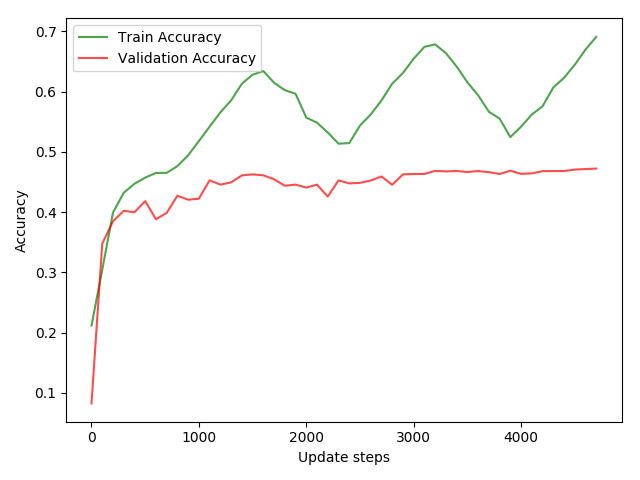
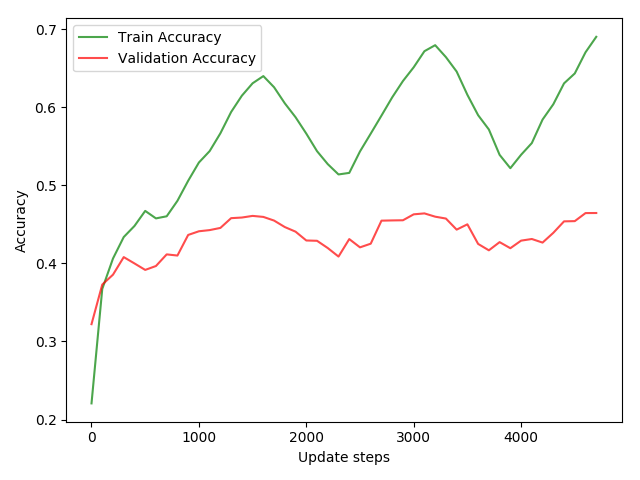
Add model & Update 3

diff --git a/As2/run.py b/As2/run.py
@@ -24,7 +24,7 @@ model_parameters = {
     "noise_std": 0.01,  # the standard deviation of the gaussian noise added to the training data
     "lambda_reg": 0.,  # regularizing term variable
     "min_delta": 0.01,  # minimum accepted validation error
-    "patience": 40  # how many epochs to wait before stopping training if the val_error is below min_delta
+    "patience": 7  # how many epochs to wait before stopping training if the val_error is below min_delta
 }
 
 
@@ -63,44 +63,17 @@ def main():
     # lambda_search(train_x, train_y, val_x, val_y)
 
     # Train a network with optimal hyper-parameter values using almost all of the data
-    #  use_all=True, val_size=1000 | cycles = 3 | n_s = 1000 | lambda = 0.00087
-    train_a_network(train_x, train_y, val_x, val_y, test_x, test_y)
+    #  use_all=True, val_size=1000 | cycles = 5 | n_s = 1000 | lambda = 0.00087
+    # train_a_network(train_x, train_y, val_x, val_y, test_x, test_y, n_cycles=5)
 
     # Report the effect of adding noise to the training data
-    # TODO:
-    #  - test 4 std values without regularisation
-    #  - test 4 std values with regularisation
-    model_parameters["train_noisy"] = True
-    model_parameters["noise_std"] = 0.01
-    model_parameters["noise_std"] = 0.05
-    model_parameters["noise_std"] = 0.1
-    model_parameters["noise_std"] = 0.15
-    cycles = 3
-    n_s = 900
-    lambda_reg = 0.
-    lambda_reg = 0.01
-    # train_a_network(train_x, train_y, val_x, val_y, test_x, test_y)
+    # test_noise(train_x, train_y, val_x, val_y, test_x, test_y)
 
     # Report the effect of different number of nodes
-    # TODO:
-    #  - test with 50 / 100 / 1000 / 3072 nodes without regularisation without noise
-    model_parameters["train_noisy"] = False
-    network_structure[0] = 50
-    network_structure[0] = 100
-    network_structure[0] = 1000
-    network_structure[0] = 3072
-    cycles = 3
-    n_s = 900
-    lambda_reg = 0.
+    # test_nodes(train_x, train_y, val_x, val_y, test_x, test_y)
 
     # Report the effect of ensemble method
-    # TODO:
-    #  - test with the ensemble method for 5 / 10 / 15 cycles
-    #  - test without the ensemble method for 1 / 3 / 5 / 10 cycles
-
-    cycles = 10
-    n_s = 900
-    lambda_reg = 0.01  # OPTIMAL LAMBDA
+    test_ensemble(train_x, train_y, val_x, val_y, test_x, test_y)
 
 
 def test_grad_computations(train_x, train_y):
@@ -142,22 +115,37 @@ def overfit_test(train_x, train_y):
     print("Test accuracy: ", test_accuracy)
 
 
-def train_a_network(train_x, train_y, val_x, val_y, test_x, test_y):
+def train_a_network(train_x, train_y, val_x, val_y, test_x, test_y, n_cycles=3, use_ensemble=False, early_stop=False):
     """
     Train and test a two-layer network
-    """
-    cycles = 3
-    n_s = 2 * int(train_x.shape[0] / model_parameters["n_batch"])
+
+    Model 1:
+    n_s = 500
+    cycle = 1
+
+    Model 2:
+    n_s = 800
+    cycle = 3
+
+    lambda = 0.01
+
+    n_s = 800
     num_iters = 2 * n_s * cycles
-    model_parameters["n_batch"] = 100
     epochs = int(num_iters / model_parameters["n_batch"])
-    model_parameters["lambda_reg"] = 0.00087
+    """
+
+    cycles = n_cycles
+    # n_s = 2 * int(train_x.shape[0] / model_parameters["n_batch"])
+    n_s = 2 * int(train_x.shape[0] / model_parameters["n_batch"])
+    epochs = cycles * 2 * 2
+
     model_parameters["n_s"] = n_s
+    model_parameters["lambda_reg"] = 0.00087
 
     net = TwoLayerNetwork(**model_parameters)
 
     net.train(network_structure, train_x, train_y, val_x, val_y,
-              n_epochs=epochs, early_stop=False, ensemble=False, verbose=True)
+              n_epochs=epochs, early_stop=early_stop, ensemble=use_ensemble, verbose=False)
 
     net.plot_train_val_progress()
     net.plot_eta_history()
@@ -231,6 +219,44 @@ def lambda_search(train_x, train_y, val_x, val_y):
 
     with open('lambda_results_' + title + '.json', 'w') as fp:
         json.dump(results, fp, sort_keys=True, indent=2)
+
+
+def test_noise(train_x, train_y, val_x, val_y, test_x, test_y):
+
+    noises = [0.01, 0.05, 0.1, 0.15, 0.2, 0.25]
+    model_parameters["train_noisy"] = True
+
+    for noise in noises:
+        model_parameters["noise_std"] = noise
+        print("noise: {} ".format(noise), end="")
+        train_a_network(train_x, train_y, val_x, val_y, test_x, test_y)
+
+    model_parameters["train_noisy"] = False
+
+
+def test_nodes(train_x, train_y, val_x, val_y, test_x, test_y):
+
+    nodes = [50, 100, 1000, 3072]
+    cycles = 10
+    for n_nodes in nodes:
+        network_structure[0] = n_nodes
+        print("Nodes : ", n_nodes, end="")
+        train_a_network(train_x, train_y, val_x, val_y, test_x, test_y, n_cycles=cycles, early_stop=True)
+
+    network_structure[0] = 50
+
+
+def test_ensemble(train_x, train_y, val_x, val_y, test_x, test_y):
+
+    cycles = [10] # [5, 10, 15]
+    for n_cycles in cycles:
+        print("Ensemble: Yes Cycles : ", n_cycles, end="")
+        train_a_network(train_x, train_y, val_x, val_y, test_x, test_y, n_cycles=n_cycles, use_ensemble=True)
+    exit()
+    cycles = [3, 5, 10]
+    for n_cycles in cycles:
+        print("Ensemble: No Cycles : ", n_cycles, end="")
+        train_a_network(train_x, train_y, val_x, val_y, test_x, test_y, n_cycles=n_cycles, use_ensemble=False)
 
 
 if __name__ == "__main__":

diff --git a/As3/network3.py b/As3/network3.py
@@ -41,7 +41,11 @@ class MultiLayerNetwork:
         self.p_iter = 0
         self.prev_val_error = 0
         self.loss_train_av_history = []
+        self.cost_train_av_history = []
+        self.acc_train_av_history = []
         self.loss_val_av_history = []
+        self.cost_val_av_history = []
+        self.acc_val_av_history = []
         self.eta_history = []
 
     def init_weights(self, net_structure, d):
@@ -83,6 +87,8 @@ class MultiLayerNetwork:
         batch_epochs = int(n / self.n_batch)
 
         self.loss_train_av_history = []
+        self.cost_train_av_history = []
+        self.acc_train_av_history = []
         self.eta_history = []
 
         iteration = 0
@@ -97,6 +103,7 @@ class MultiLayerNetwork:
 
             av_acc = 0  # Average epoch accuracy
             av_loss = 0  # Average epoch loss
+            av_cost = 0  # Average epoch cost
 
             for batch in range(batch_epochs):
                 # Calculate a new learning rate based on the CLR method
@@ -121,8 +128,9 @@ class MultiLayerNetwork:
                 layers_out, class_out = self.forward(batch_data)
 
                 # Run a backward pass in the network, computing the loss and updating the weights
-                loss = self.backward(layers_out, batch_data, batch_labels)
+                loss, cost = self.backward(layers_out, batch_data, batch_labels)
                 av_loss += loss
+                av_cost += cost
 
                 av_acc += self.accuracy(class_out, batch_classes)
 
@@ -135,8 +143,11 @@ class MultiLayerNetwork:
                         self.models[i] = [self.w.copy(), self.b.copy()]
 
             average_epoch_loss = av_loss / batch_epochs
+            average_epoch_cost = av_cost / batch_epochs
             average_epoch_acc = av_acc / batch_epochs
             self.loss_train_av_history.append(average_epoch_loss)
+            self.cost_train_av_history.append(average_epoch_cost)
+            self.acc_train_av_history.append(average_epoch_acc)
 
             if verbose:
                 print("Epoch: {} - Accuracy: {} Loss: {}".format(i, average_epoch_acc, average_epoch_loss))
@@ -255,8 +266,8 @@ class MultiLayerNetwork:
         for layer_i in range(len(l_out)-1, 0, -1):
             # Calculate layer weight gradient based on the loss of that layer and the input of that layer
             w_i_grad = np.dot(loss_i_grad, l_out[layer_i-1].T) / self.n_batch
-            # Calculate layer bias gradient based on its loss
-            b_i_grad = np.sum(loss_i_grad, axis=0) / self.n_batch
+            # Calculate layer bias gradient based on its loss (maybe np.sum(loss_i_grad, axis=0) also works)
+            b_i_grad = np.dot(loss_i_grad, np.ones((self.n_batch, 1))) / self.n_batch
             # Compute gradient of regularization term w.r.t the OUTPUT weights
             reg_i_grad = 2 * self.lambda_reg * self.w[layer_i]
             # Save the gradients
@@ -271,7 +282,7 @@ class MultiLayerNetwork:
         # Calculate FIRST hidden layer weight and bias gradients
         w_0_grad = np.dot(loss_i_grad, data.T) / self.n_batch
         # Calculate layer bias gradient based on its loss
-        b_0_grad = np.sum(loss_i_grad, axis=0) / self.n_batch
+        b_0_grad = np.dot(loss_i_grad, np.ones((self.n_batch, 1))) / self.n_batch
         # Compute gradient of regularization term
         reg_0_grad = 2 * self.lambda_reg * self.w[0]
         # Save the gradients

diff --git a/As2/network2.py b/As2/network2.py
@@ -155,6 +155,7 @@ class TwoLayerNetwork:
             if early_stop:
                 val_error = 1 - val_acc
                 if self.early_stopping(val_error):
+                    print("Model reached plateau. Early stopping enabled at epoch {}.".format(i))
                     break
 
         return val_acc
@@ -203,12 +204,13 @@ class TwoLayerNetwork:
             models_accuracy[i] = self.accuracy(model_out, test_labels)  # Calculate the accuracy of each classifier
             models_out[i] = model_out  # Save the output of the model
 
-            # print("Model {} had {}% Test accuracy".format(i, models_accuracy[i] * 100))
-
         # Concatenate all results to a list
         results = []
         for i, model_results in models_out.items():
             results.append(model_results)
+
+        for i, model_acc in models_accuracy.items():
+            print("Model {} had {}% Test accuracy".format(i, models_accuracy[i] * 100))
 
         # Take majority vote across models
         average_out = mode(results, axis=0)[0]
@@ -346,7 +348,11 @@ class TwoLayerNetwork:
         to learn a more general representation of the data
         :return: a noisy batch
         """
-        return batch + np.random.normal(self.noise_m, self.noise_std, batch.shape)
+        noisy_batch = np.zeros(batch.shape)
+        for i, s in enumerate(batch):
+            noisy_batch[i] = s + np.random.normal(self.noise_m, self.noise_std, s.shape)
+        return noisy_batch
+        # return batch + np.random.normal(self.noise_m, self.noise_std, batch.shape)
 
     def cycle_eta(self, iteration):
         """
@@ -373,7 +379,6 @@ class TwoLayerNetwork:
         if diff < self.min_delta:
             self.p_iter += 1
             if self.p_iter > self.patience:
-                print("Model reached plateau. Early stopping enabled.")
                 return True
         else:
             self.p_iter = 0
@@ -405,7 +410,8 @@ class TwoLayerNetwork:
         """
         Plot the history of a variable
         """
-        x_axis = np.arange(1, len(var_train) * self.n_batch + 1, self.n_batch)
+        x_axis = range(1, len(var_train) + 1)
+        # x_axis = np.arange(1, len(var_train) * self.n_batch + 1, self.n_batch)
         y_axis_train = var_train
         y_axis_val = var_val
         plt.plot(x_axis, y_axis_train, color='green', alpha=0.7, label="Train " + title)
